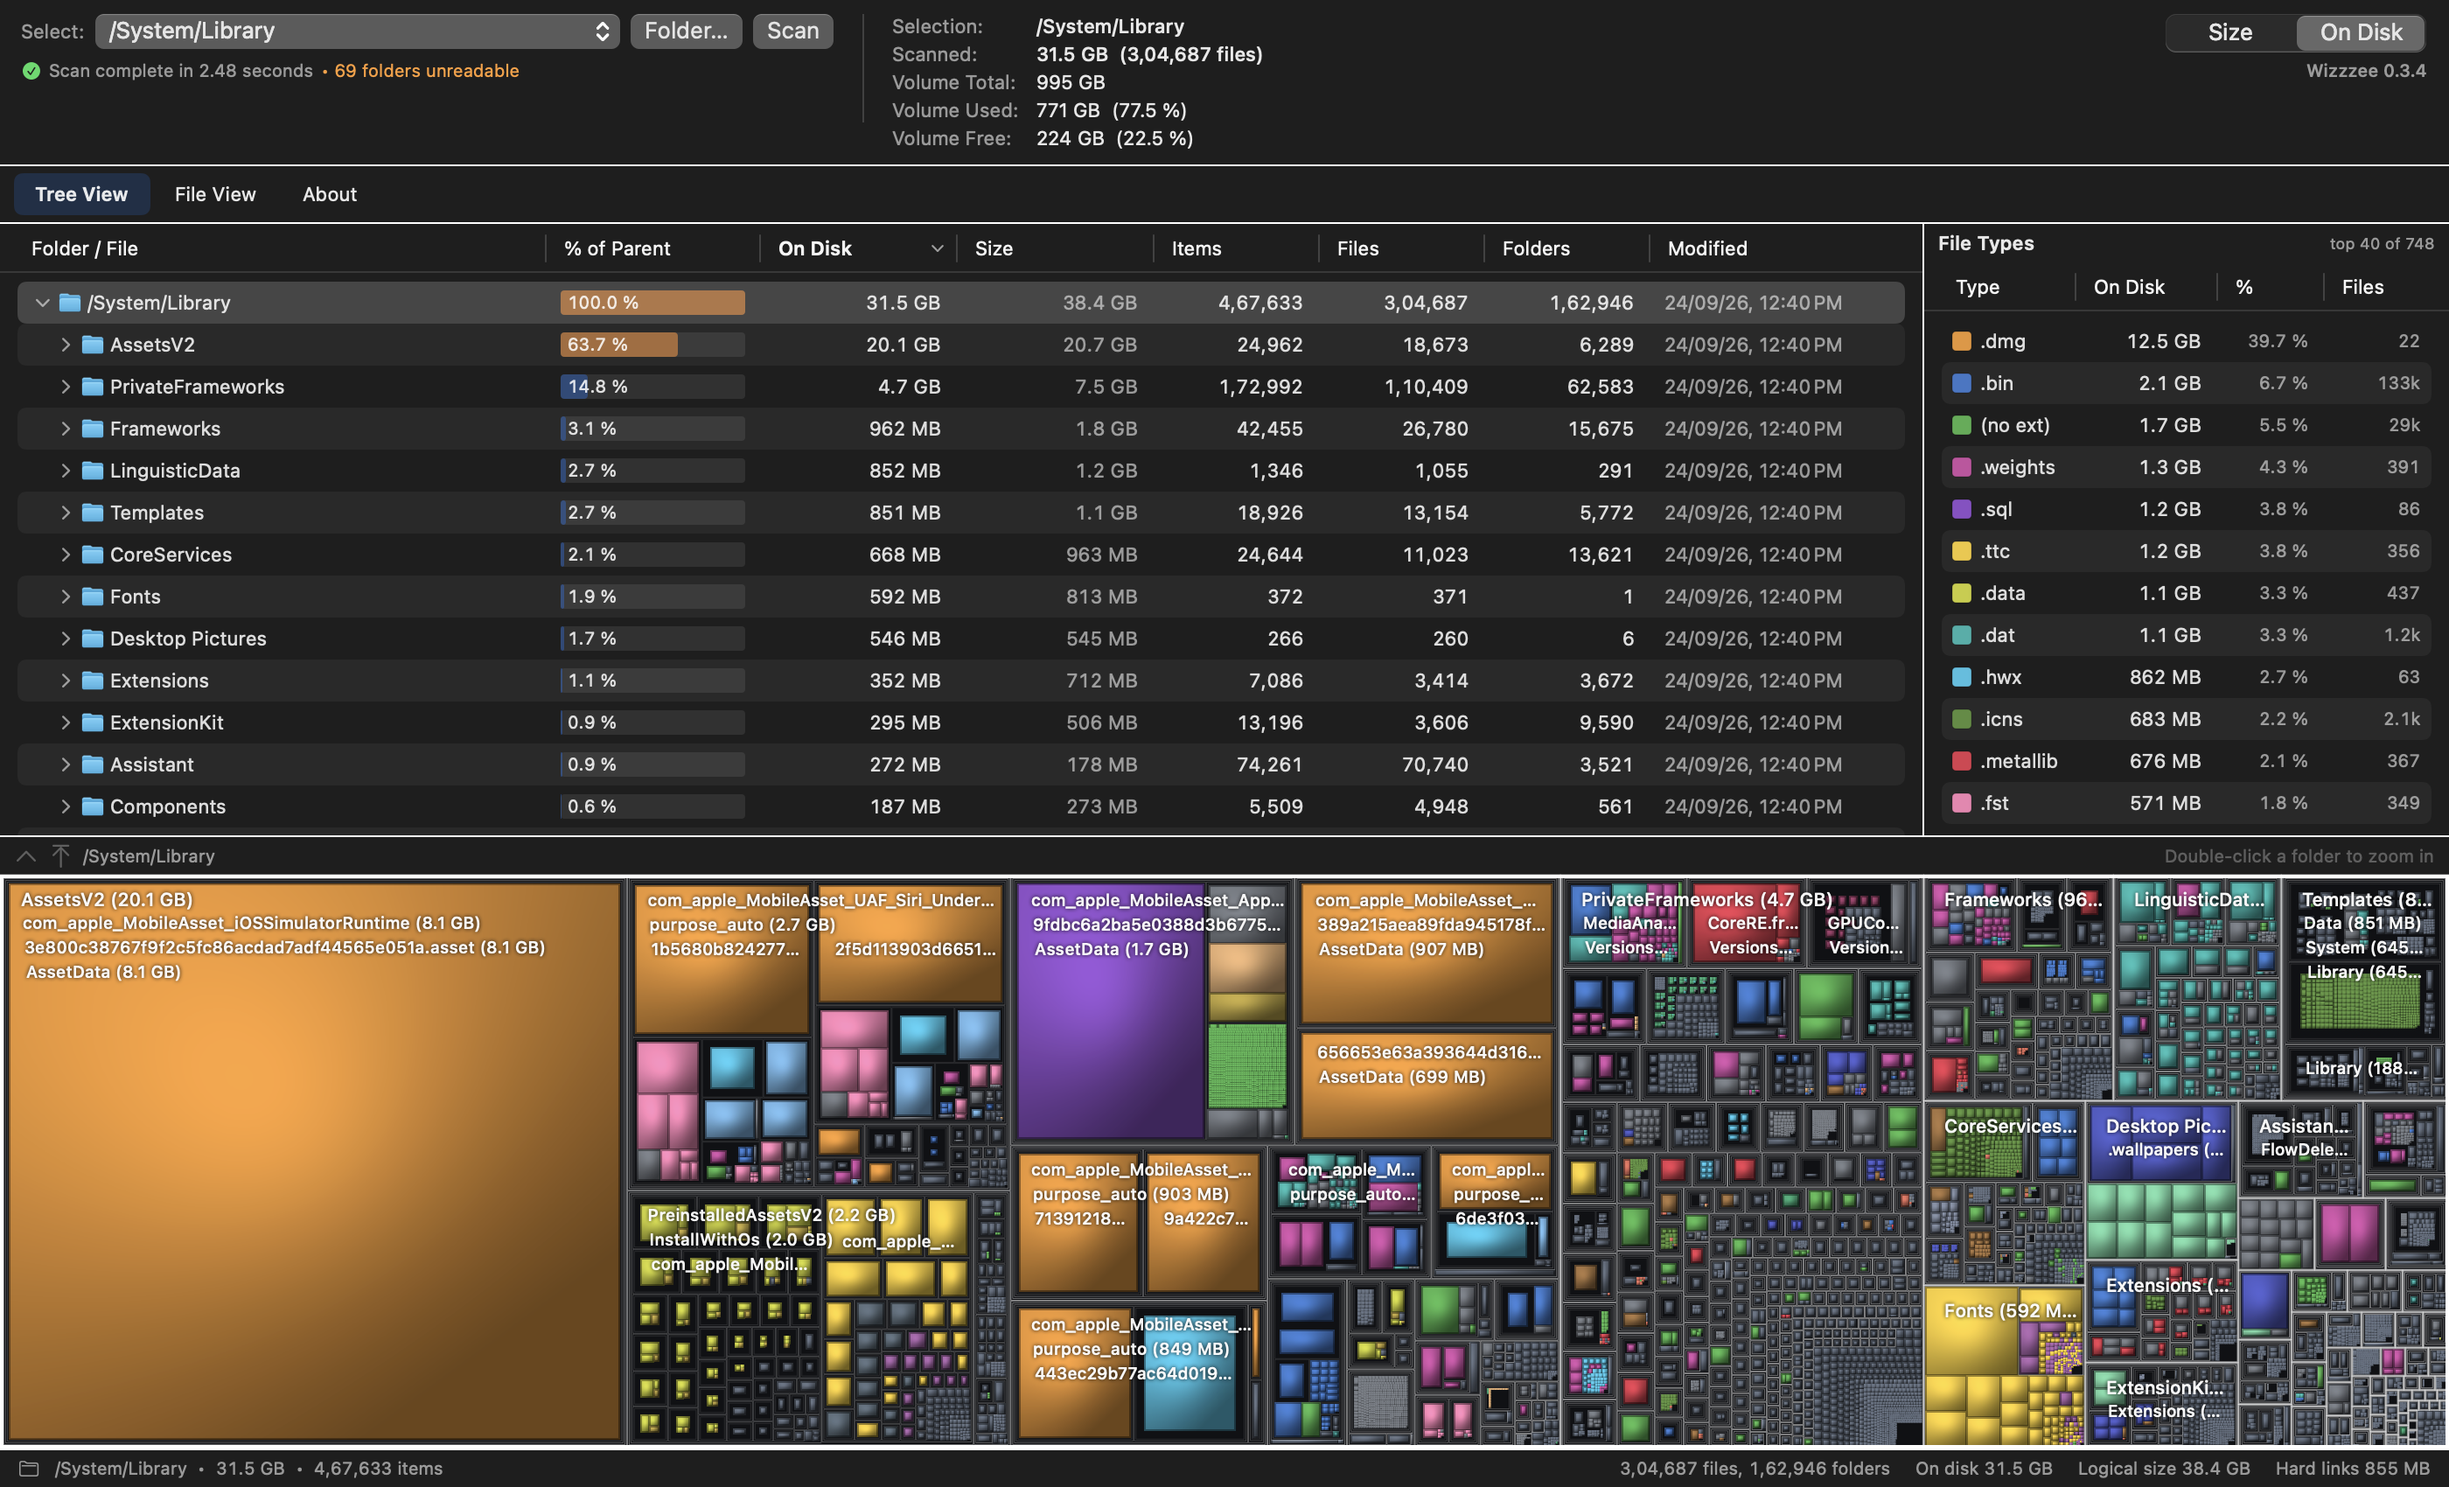
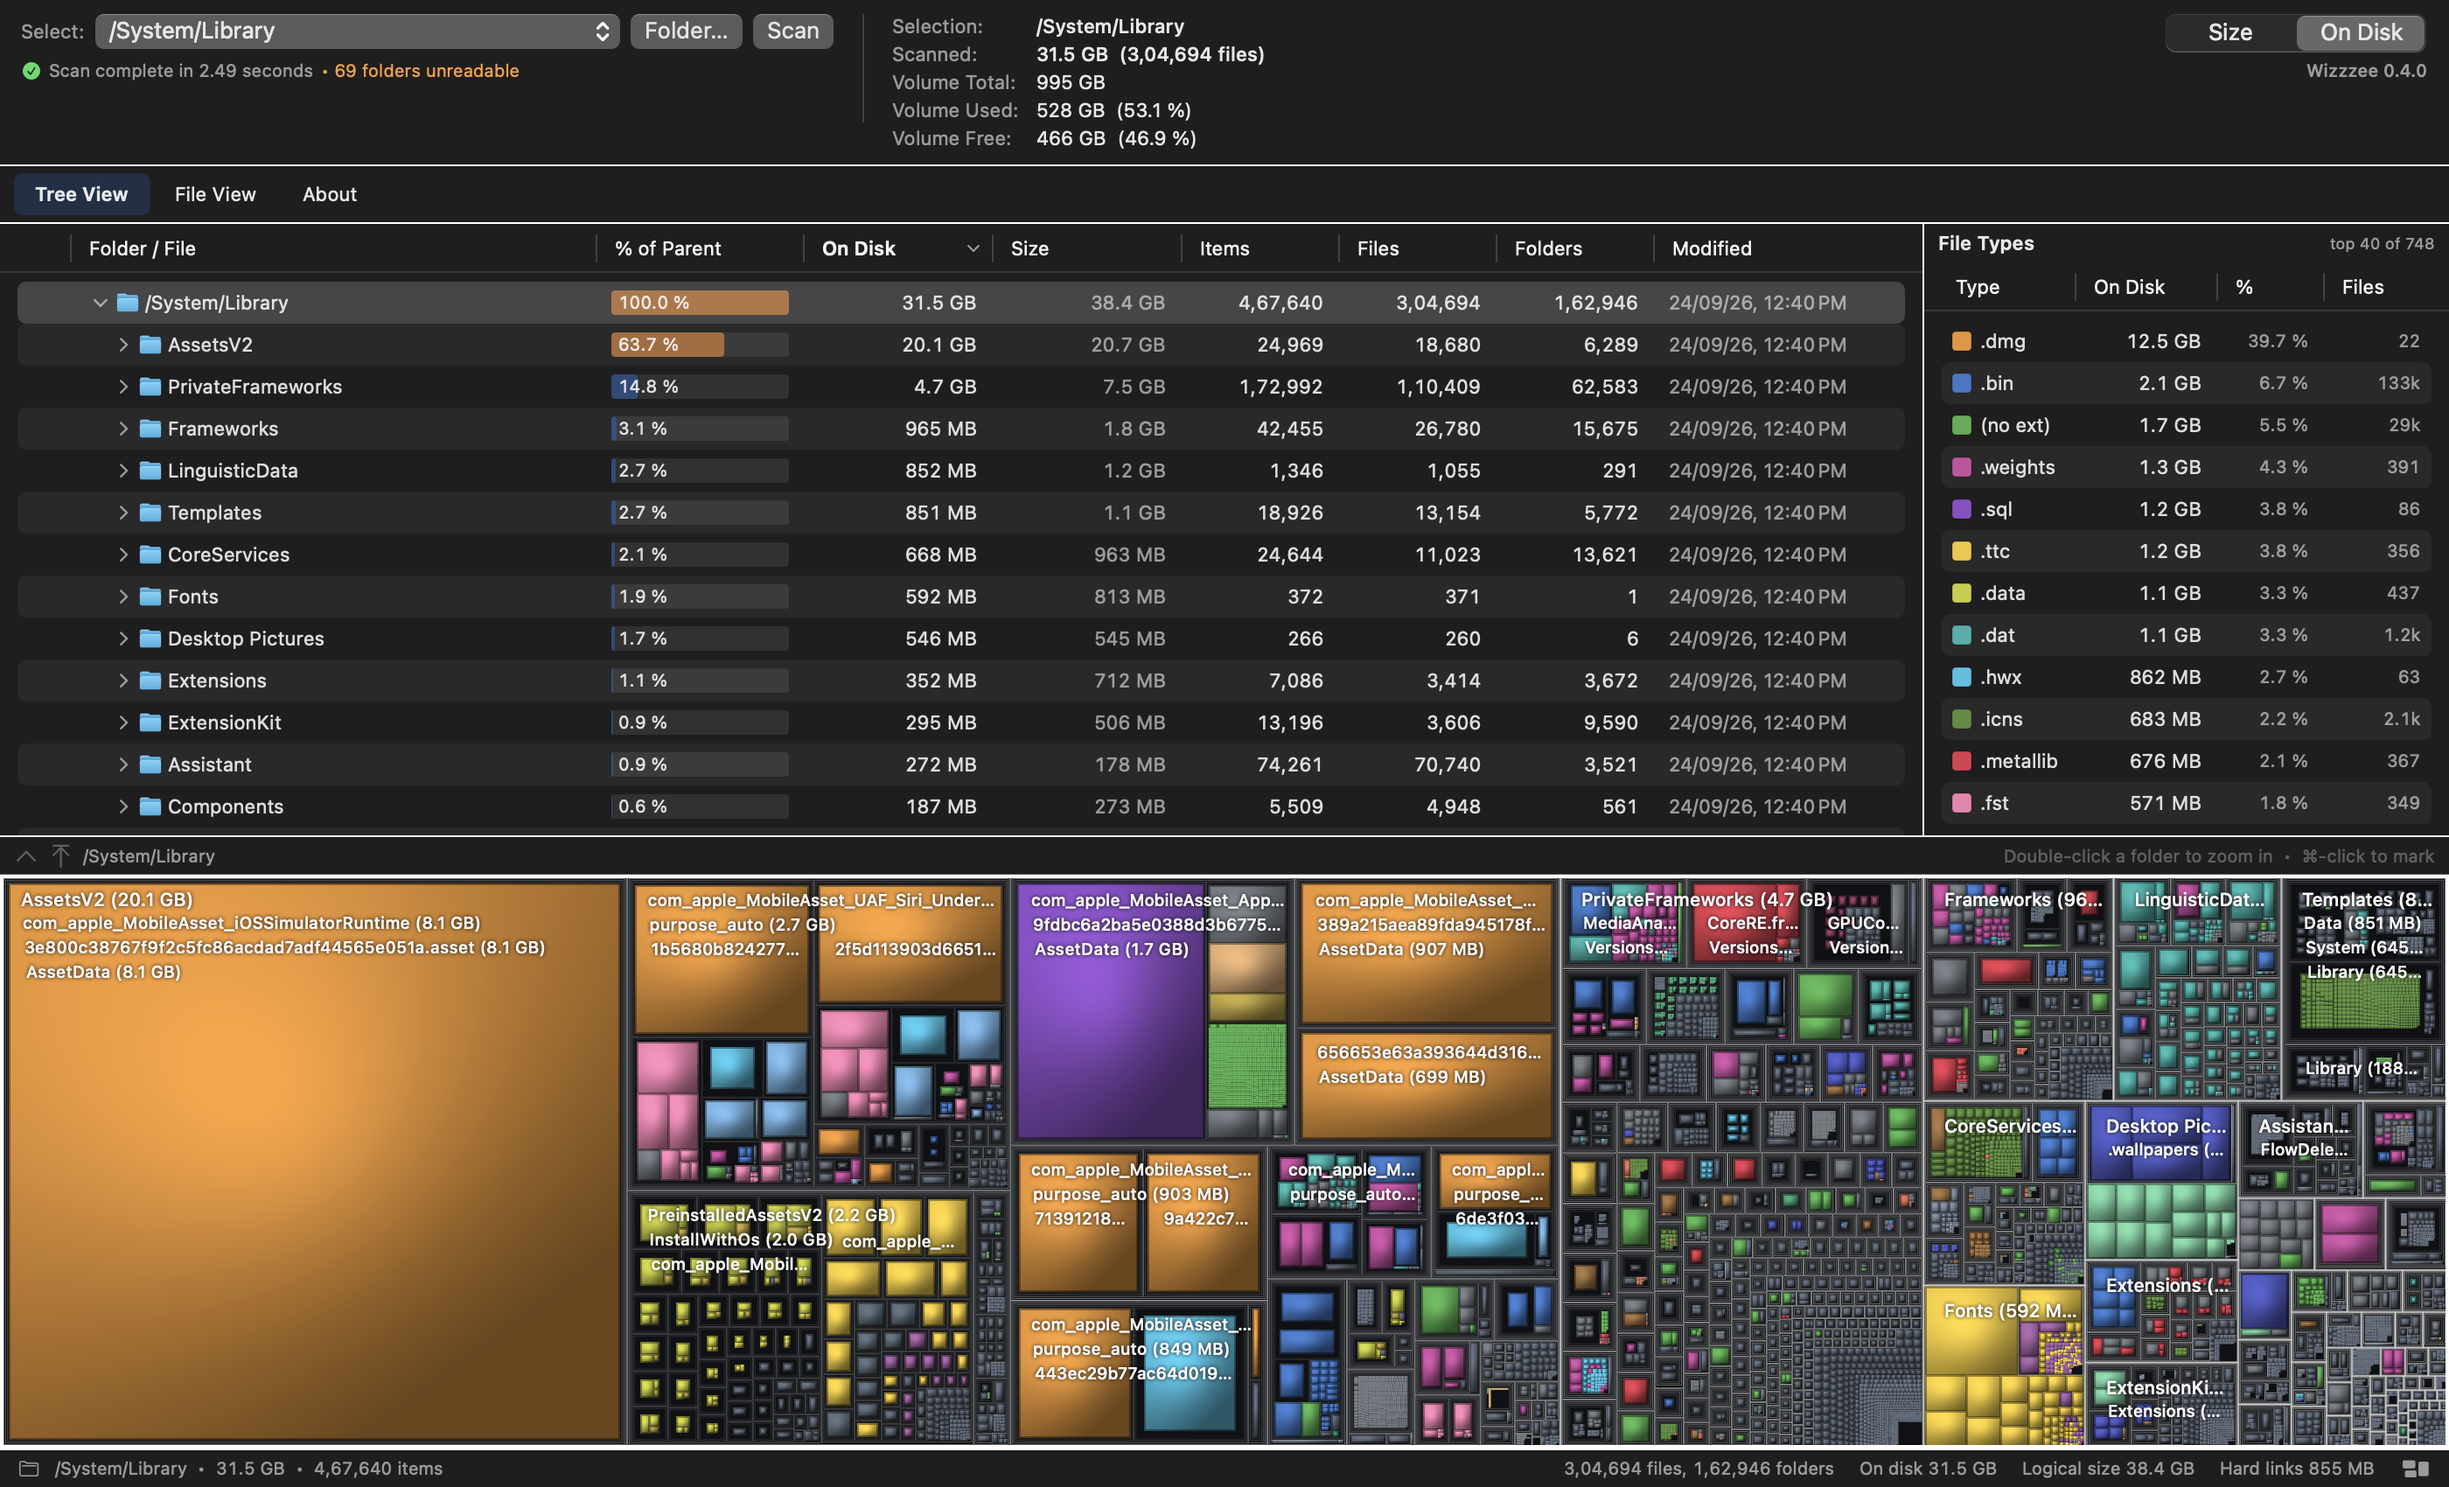
Release 0.4.0
Version 0.4.0, build 11, and the release notes for it.

Three changes since 0.3.4, all to do with removing things: ⌘⌫ and ⌥⌘⌫ on
Finder's keys with a treemap button in the status bar (#29); a delete that
counts what it has removed, stops part-way when asked, and takes a row out
without redrawing the rest (#30); and marks, for picking items out of
different folders and removing them together, with a list of them and what
they come to (#31).

README: the Tree View and File View screenshots are redrawn from this
build, which has the mark column and the status-bar button the old ones
lack, and there is a new one of two folders marked.

diff --git a/docs/releases/v0.4.0.md b/docs/releases/v0.4.0.md
@@ -1,0 +1,116 @@
+# Wizzzee 0.4.0
+
+Wizzzee is a disk space analyzer for macOS in the shape of [WizTree](https://diskanalyzer.com/): a folder tree with sizes, a list of the biggest files, and a colored treemap you can click into. It scans a full startup disk — around 3.9 million files — in roughly 15 seconds.
+
+**This release is about removing things.** You can now pick items out of different folders and remove them together, with a list of what you picked and what it adds up to. A delete shows how far it has got and can be stopped part-way. Taking a row out no longer redraws the whole table. And `⌘⌫` works.
+
+## Mark things in different folders, then remove them together
+
+Until now the only way to act on several items was the table's own selection. It could hold rows from different folders, but only for as long as every one of those folders stayed open and you clicked nothing else: one plain click, a click on the treemap, collapsing a folder or switching tabs, and it was gone. The only look at what you were about to remove was six names in an alert.
+
+Every row in the Tree View and the File View now starts with a checkbox. Ticking it **marks** the row for removal. A mark is not the selection — it stays where you put it while you open and close folders, sort, filter and switch tabs, so you can go through a scan gathering things up and deal with them at the end.
+
+There are four other ways to put a mark on, all of which take it off again too:
+
+- **Space**, on whatever rows are selected
+- **Mark for Removal** in the right-click menu
+- **File ▸ Mark for Removal**, `⇧⌘M`
+- **`⌘`-click** on a tile in the treemap
+
+Marking a folder marks everything in it: what is inside shows a greyed tick that you can't change on its own, and if you had marked some of its contents separately, the folder's mark replaces them. A folder with only some of its contents marked shows a dash. So nothing is ever counted twice.
+
+As soon as anything is marked, the status bar says how many items and how much space: `3 marked • 22.0 MB`. Click that to open the list. It sits above the status bar on every tab and shows each marked item with the folder it is in, how many items it holds, and its size, with the total at the top. From there:
+
+- the **ⓧ** at the start of a row takes that mark off — nothing is removed
+- clicking a row opens its folder in the tree and selects it, so you can see where it is
+- **Clear** takes every mark off
+- **Move to Trash** moves all of them, straight away
+- **Delete…** asks first, then deletes all of them for good
+
+On the treemap, marked tiles are hatched, so you can see what is about to go as a share of the disk.
+
+A few things worth knowing:
+
+- The total is always space on disk, whichever of **Size** and **On Disk** the tables are showing. It sits beside a button that removes without asking again, and a sparse disk image's length is not what deleting it gives back.
+- A hard link whose data has another name elsewhere counts for nothing in the total, because removing it frees nothing.
+- What can't be removed can't be marked: the folder you scanned, a whole volume, a home folder, anything on the sealed system volume.
+- A mark on something that turned out not to be removable stays on, so the list never empties as though the job were done. A rescan clears all marks.
+- Marks can't be changed while a removal is running. It took them as they stood when it started.
+
+## A delete shows how far it has got, and can be stopped
+
+Since 0.3.0 a delete has run in the background with a progress bar and a Stop button. But the bar counted whole items, so deleting one folder — which is the usual case — was a bar that sat at nothing until it was all over, and Stop did nothing until then either.
+
+The status bar now counts the files and folders actually removed, against what the scan found, with the space beside it:
+
+> Removing node_modules   41,200 of 118,000 items  •  2.1 GB of 6.4 GB
+
+**Stop** takes effect at the next file. What has gone is gone; what is left stays in the tree, and Wizzzee reads it back from the disk so every total is what is really there. In testing, a delete of 800,000 files was stopped part-way and the app's counts afterwards matched the disk exactly.
+
+Two things that used to end a delete no longer do:
+
+- **A file that can't be removed costs only itself.** One locked file used to stop the whole folder at that point, with everything after it left behind and the tree still showing the folder as it had been. Now everything else goes, the alert names the file that stayed and why, and the tree shows what is left.
+- **Very deep folders can be deleted.** macOS limits a path to 1,024 bytes, and a folder whose contents ran deeper than that could not be deleted at all — the attempt failed outright. It can now.
+
+Moving to the Trash is a single step per item, so its progress still counts items.
+
+## Removing a row no longer redraws the table
+
+Every delete used to redraw the whole table, empty the File View and refill it a moment later, and drop whatever you had selected.
+
+Now the row goes and the others stay where they are, with the same folders open and the table scrolled to the same place. If the row you deleted was the one selected, the selection moves to whatever took its place — the next row, or the one before it if that was the last, or the folder itself once it is empty. So you can work down a list with the keyboard.
+
+While a removal that takes more than a moment is running, the rows on their way out are dimmed, with a spinner on the one you asked for.
+
+One thing does still move. The tables are sorted by size, so a folder that shrinks below its neighbour drops down the list when you delete something in it.
+
+## `⌘⌫` and `⌥⌘⌫`
+
+Removing an item was only ever in the right-click menu; nothing answered the keyboard. The File menu now has both, on the keys Finder uses:
+
+| Key | What it does |
+| --- | --- |
+| `⌘⌫` | Moves the selection to the Trash, without asking |
+| `⌥⌘⌫` | Deletes the selection permanently, after the usual confirmation |
+
+Because `⌘⌫` asks nothing, both keys act only on a selection you can see: a row in the tab in front, or the tile outlined on the treemap. A row you selected and then hid by collapsing its folder, or something selected in a different tab, is left alone.
+
+`⌘⌫` in the File View's filter still deletes the text you typed. And pressing either key on something that can't be removed — the folder you scanned is selected the moment a scan finishes — tells you why instead of doing nothing.
+
+## Smaller changes
+
+- **A button for the treemap.** The right-hand end of the status bar has a button that shows and hides the treemap, the same as `⌘T` and **View ▸ Hide Treemap**.
+- **Files of the same size keep their order.** The File View lists the thousand largest files, and which of a run of equal-sized files made the list — and in what order — used to change whenever anything in the scan did. In a folder of small files, where most are one of a few sizes, the list reshuffled on every delete.
+- `Wizzzee --uishot` has a `--mark N` option, for rendering a picture of the marks without clicking.
+
+## Limits
+
+- A file or folder whose **own** path is longer than 1,024 bytes still can't be deleted on its own; you get an alert saying the name is too long. Deleting the folder above it removes it.
+- `⌘`-click on a treemap tile was checked by the self-test but not by clicking, because the tool used to click through the app can't hold a modifier key.
+
+## Installing
+
+Download `Wizzzee-0.4.0-macos-universal.zip` below, unzip it, and move `Wizzzee.app` to Applications, replacing the old one.
+
+- **First launch.** The app is not notarized, so macOS blocks it the first time. Open it once, dismiss the warning, then go to **System Settings → Privacy & Security** and click **Open Anyway**. macOS asks only once.
+- **Full Disk Access has to be granted again.** macOS ties that permission to the exact build, so the grant from an earlier version does not carry over. In **System Settings → Privacy & Security → Full Disk Access**, remove the old Wizzzee entry and add the new app. Without it, Mail, Messages, Safari and other users' folders are skipped and the totals read low.
+
+It runs on macOS 14 or newer, on Apple silicon and Intel.
+
+## Internal
+
+Permanent deletes now call `removefile(3)` directly. That is the routine underneath `FileManager.removeItem`, which keeps what it learns on the way to itself; called directly it reports each entry as it goes, which is where both the progress and the Stop come from. A symbolic link is removed and never followed, and nothing on another volume is touched.
+
+The flicker had one cause. A file was named by its position in its folder's list, and deleting one took its entry out, renumbering every file after it — so the table was handed rows it had never seen. A deleted file now keeps its place in the list, marked as gone, and everything that outlived the delete goes on naming what it named. That is also what lets marks and the selection survive one.
+
+Scan time and memory are unchanged: 9.8–10.1 seconds and 411–413 MB on a home folder of 2.8 million files, in three runs each of 0.3.4 and this build.
+
+This release is three changes, and each went through the same two checks before it was merged.
+
+A second model reviewed each one, in up to four passes, and every finding was checked against the code before anything was changed. Among those that were real: `⌘⌫` could reach an item that was selected but was neither a row on screen nor outlined on the treemap; after a part-finished delete in a very deep folder, files that had gone were still listed; and marks could be changed while a removal that had already taken them was running, so the list could stop showing something still on its way out. Four findings were looked into and not acted on, each with the reason written down.
+
+Then a model drove the built app through each change by hand, on throwaway disk images, with every removal checked on disk. That found three things no test had: `⌘⌫` did nothing on a File View row picked straight after using the filter; equal-sized files changed places after a delete; and 60,000 files vanish too quickly to watch a progress bar, so that part was done again on 800,000.
+
+The build check caught one more. The delete routine compiled on the machine it was written on and not with the older toolchain releases are built with, so it would have failed at exactly this step.
+
+The self-test grew from 297 checks to 402. The new ones hold a removal to the disk and not to what it says about itself: a count of the folder taken beforehand against the count reported; a locked file left behind with everything else gone; a folder deeper than the path limit; a stop part-way, compared against a fresh scan of what is left.

diff --git a/README.md b/README.md
@@ -109,6 +109,8 @@ rebuilding.
 
 ![File View, showing the biggest files in the scan](docs/images/file-view.png)
 
+![Two folders marked for removal: ticked in the table, hatched on the treemap, and listed with their sizes above the status bar](docs/images/marks.png)
+
 ## Reading the numbers
 
 **Size vs On Disk.** "Size" is the logical file length; "On Disk" is the space
